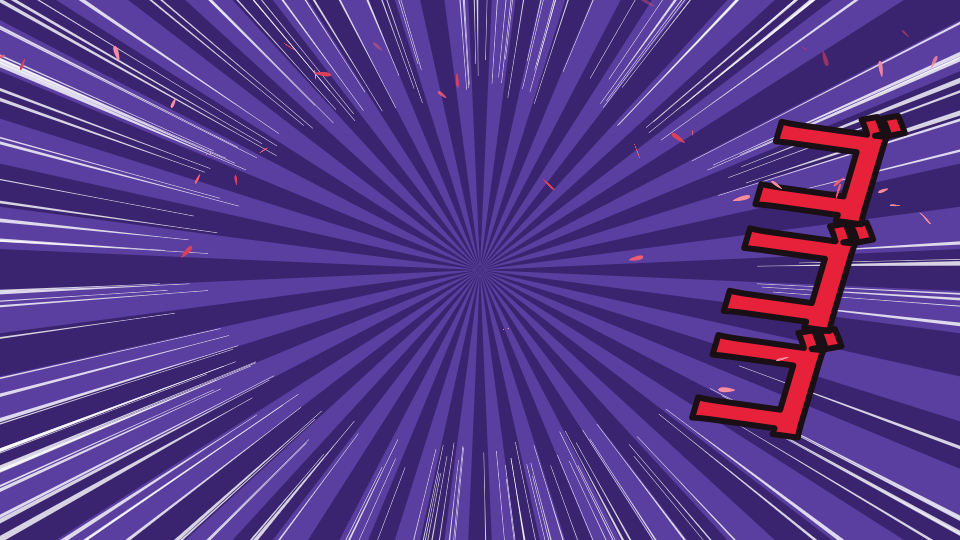
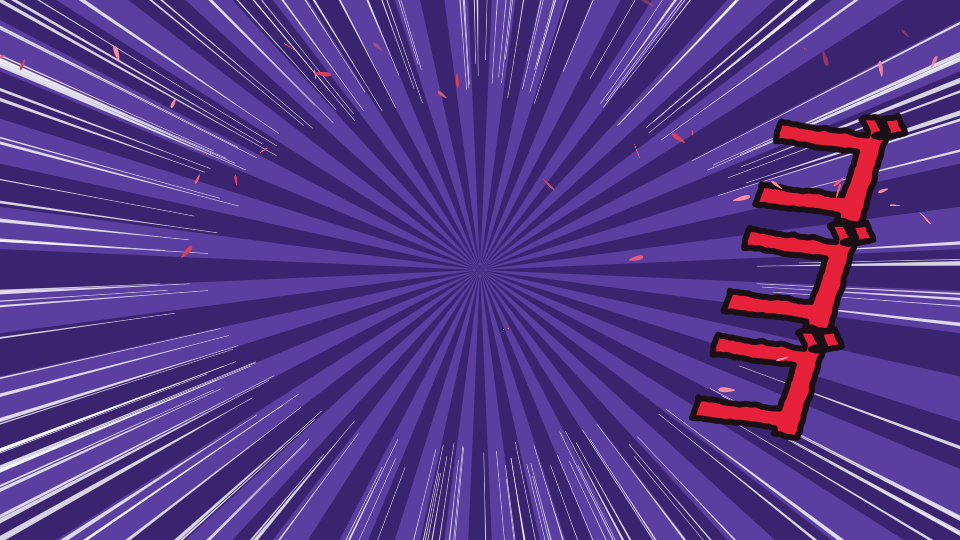
S14: rugosidade de letreiro à mão no texto (deslocamento por ruído ao longo da normal)

diff --git a/app/crates/aiai-paint/src/text.rs b/app/crates/aiai-paint/src/text.rs
@@ -25,6 +25,48 @@ pub struct TextOptions {
     pub scale: [f32; 2],
 }
 
+/// Bordas irregulares de letreiro feito à mão: desloca os pontos do contorno ao longo da normal por ruído
+/// (amplitude em px, comprimento de onda em px). Reamostra antes para a irregularidade não depender dos vértices da fonte.
+pub fn roughen(outline: &mut TextOutline, amplitude: f32, wavelength: f32, seed: u32) {
+    if amplitude <= 0.0 {
+        return;
+    }
+    let step = (wavelength / 6.0).clamp(0.75, 6.0);
+    for c in &mut outline.contours {
+        // reamostra o contorno fechado a cada `step` px
+        let n = c.len();
+        let mut res = Vec::new();
+        for i in 0..n {
+            let (a, b) = (c[i], c[(i + 1) % n]);
+            let len = ((b[0] - a[0]).powi(2) + (b[1] - a[1]).powi(2)).sqrt();
+            let k = (len / step).ceil().max(1.0) as usize;
+            for j in 0..k {
+                let t = j as f32 / k as f32;
+                res.push([a[0] + (b[0] - a[0]) * t, a[1] + (b[1] - a[1]) * t]);
+            }
+        }
+        let m = res.len();
+        if m < 3 {
+            continue;
+        }
+        let mut out = Vec::with_capacity(m);
+        let mut s_acc = 0.0f32;
+        for i in 0..m {
+            let (p0, p1, p2) = (res[(i + m - 1) % m], res[i], res[(i + 1) % m]);
+            let (tx, ty) = (p2[0] - p0[0], p2[1] - p0[1]);
+            let tl = (tx * tx + ty * ty).sqrt().max(1e-6);
+            let (nx, ny) = (-ty / tl, tx / tl);
+            if i > 0 {
+                s_acc += ((p1[0] - res[i - 1][0]).powi(2) + (p1[1] - res[i - 1][1]).powi(2)).sqrt();
+            }
+            let u = s_acc / wavelength.max(1.0);
+            let d = amplitude * (0.65 * crate::noise::perlin(u, 0.5, seed) + 0.35 * crate::noise::perlin(u * 3.1, 1.7, seed ^ 0x77));
+            out.push([p1[0] + nx * d, p1[1] + ny * d]);
+        }
+        *c = out;
+    }
+}
+
 fn flatten_quad(out: &mut Vec<[f32; 2]>, p0: [f32; 2], p1: [f32; 2], p2: [f32; 2], n: usize) {
     for k in 1..=n {
         let t = k as f32 / n as f32;

diff --git a/app/crates/aiai-tools/src/fx2d.rs b/app/crates/aiai-tools/src/fx2d.rs
@@ -50,6 +50,17 @@ pub struct TextRequest {
     pub outline_width: f32,
     #[serde(default)]
     pub outline_color: Option<ColorRef>,
+    /// Borda irregular de letreiro à mão: amplitude (px) e comprimento de onda (px). 0 = fonte limpa.
+    #[serde(default)]
+    pub roughness: f32,
+    #[serde(default = "d_wave")]
+    pub roughness_wavelength: f32,
+    #[serde(default)]
+    pub seed: u32,
+}
+
+fn d_wave() -> f32 {
+    18.0
 }
 
 fn unit2() -> [f32; 2] {
@@ -70,7 +81,8 @@ pub fn text_command(p: &Project, blobs: &mut BlobStore, req: &TextRequest) -> To
         }
     };
     let opt = TextOptions { size: req.size, letter_spacing: req.letter_spacing, vertical: req.vertical, center: req.center, rotation: req.rotation, skew: req.skew, scale: req.scale };
-    let outline = text_outline(font, &req.text, &opt).map_err(ToolError::Invalid)?;
+    let mut outline = text_outline(font, &req.text, &opt).map_err(ToolError::Invalid)?;
+    aiai_paint::text::roughen(&mut outline, req.roughness, req.roughness_wavelength, req.seed);
     let fl = layer_data(p, &req.fill_layer)?;
     if fl.kind != LayerType::Raster {
         return Err(ToolError::Invalid("fill_layer precisa ser raster".into()));

diff --git a/app/crates/aiai-tools/tests/fx2d.rs b/app/crates/aiai-tools/tests/fx2d.rs
@@ -39,7 +39,7 @@ fn gag_cut_with_text_lines_and_particles() {
     let tr = TextRequest {
         cut: cut.clone(), frame: 0, fill_layer: txt_fill, outline_layer: Some(txt_line), text: "ゴゴゴ".into(), font: None, size: 120.0,
         center: [800.0, 270.0], vertical: true, letter_spacing: -10.0, rotation: 8.0, skew: 0.15, scale: [1.2, 1.0],
-        color: ColorRef::Direct { rgba: Rgba::from_hex("#e8213a").unwrap() }, outline_width: 6.0, outline_color: Some(ColorRef::Direct { rgba: Rgba::from_hex("#1a0f14").unwrap() }),
+        color: ColorRef::Direct { rgba: Rgba::from_hex("#e8213a").unwrap() }, outline_width: 6.0, outline_color: Some(ColorRef::Direct { rgba: Rgba::from_hex("#1a0f14").unwrap() }), roughness: 2.5, roughness_wavelength: 16.0, seed: 3,
     };
     let c = text_command(&s.project, &mut s.blobs, &tr).unwrap();
     s.apply(c).unwrap();
